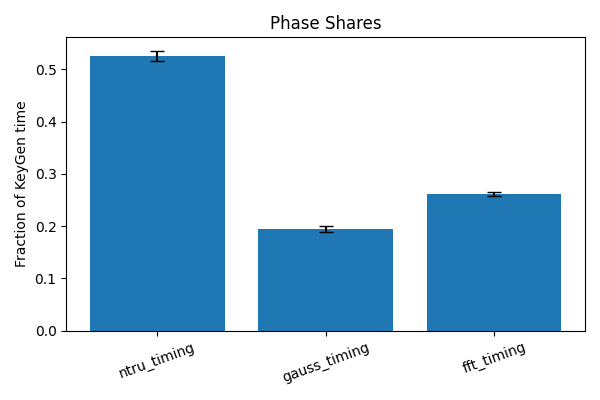
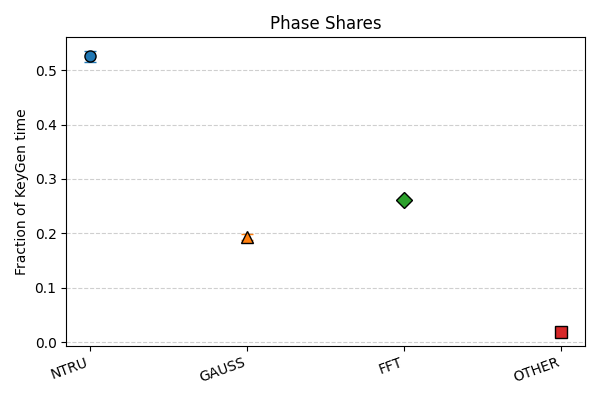
falcon refactored

diff --git a/Falcon/keygen_operations/compute_phase_shares.py b/Falcon/keygen_operations/compute_phase_shares.py
@@ -2,28 +2,17 @@
 """
 compute_phase_shares.py
 
-Reads a CSV of Falcon keygen phase timings and computes the fraction
-of each subphase relative to the total key generation time, then
-outputs a summary CSV and bar chart.
+Reads a Falcon timing CSV with columns:
+  mode,iteration,keygen,sign,verify,rejections,ntru_timing,gauss_timing,fft_timing
 
-Usage:
-    python3 compute_phase_shares.py <input_csv> <output_csv> <output_png>
-
-Example:
-    python3 compute_phase_shares.py falcon_512_times.csv phase_shares_512.csv phase_shares_512.png
+Computes fraction of each subphase (NTRU, Gauss, FFT) relative to the keygen time,
+adds the "other" fraction (the remainder), then writes a CSV of those fractions and a
+dot-and-error-bar chart of the mean ± SEM.
 """
 import sys
 import pandas as pd
 import matplotlib.pyplot as plt
 import numpy as np
-
-def compute_shares(df, time_cols, total_col):
-    # Compute fraction of each phase per run
-    shares = {}
-    for col in time_cols:
-        shares[f"{col}_frac"] = df[col] / df[total_col]
-    return pd.DataFrame(shares)
-
 
 def main():
     if len(sys.argv) != 4:
@@ -31,35 +20,60 @@ def main():
         sys.exit(1)
 
     in_csv, out_csv, out_png = sys.argv[1:]
-    # Read timing CSV
     df = pd.read_csv(in_csv)
 
-    # Expected columns in input: 'KeyGen', 'NTRU', 'Gauss', 'FFT', 'Other'
-    # adjust names if different
-    total_col = 'keygen'
-    phase_cols = ['ntru_timing', 'gauss_timing', 'fft_timing']
-    # if there is an 'Other' column, include it:
-    if 'Other_ms' in df.columns:
-        phase_cols.append('Other_ms')
+    # These must match the column names in your CSV
+    total_col  = "keygen"
+    phase_cols = ["ntru_timing", "gauss_timing", "fft_timing"]
 
-    shares_df = compute_shares(df, phase_cols, total_col)
+    # Compute per-run fractions
+    shares_df = df[phase_cols].div(df[total_col], axis=0)
+    # Add "other" as the remainder
+    shares_df['other_frac'] = 1 - shares_df.sum(axis=1)
+
+    # Save the fractions CSV
     shares_df.to_csv(out_csv, index=False)
-    print(f"Saved phase share fractions to {out_csv}")
+    print(f"Saved phase-share fractions to {out_csv}")
 
-    # Compute mean and error bars
+    # Compute mean and SEM
     means = shares_df.mean()
-    ses = shares_df.sem()
+    sems  = shares_df.sem()
 
-    # Plot
+    # --- Dot-and-error-bar style plot ---
     plt.figure(figsize=(6,4))
-    x = np.arange(len(means))
-    plt.bar(x, means, yerr=ses, capsize=5)
-    plt.xticks(x, [c.replace('_frac','') for c in means.index], rotation=20)
-    plt.ylabel('Fraction of KeyGen time')
-    plt.title('Phase Shares')
+    ax = plt.gca()
+
+    phases = means.index.tolist()
+    x = np.arange(len(phases))
+
+    # Markers and colors for each phase (4 phases now)
+    markers = ['o','^','D','s']
+    colors  = ['C0','C1','C2','C3']
+
+    for i, phase in enumerate(phases):
+        ax.errorbar(
+            x[i], means[phase],
+            yerr=sems[phase],
+            fmt=markers[i],
+            markersize=8,
+            markerfacecolor=colors[i],
+            markeredgecolor='black',
+            elinewidth=1.5,
+            capsize=4
+        )
+
+    ax.set_xticks(x)
+    # Clean up labels: drop suffixes
+    labels = [p.replace('_timing','').replace('_frac','').upper() for p in phases]
+    ax.set_xticklabels(labels, rotation=20, ha='right')
+
+    ax.set_ylabel('Fraction of KeyGen time')
+    ax.set_title('Phase Shares')
+    ax.grid(axis='y', linestyle='--', alpha=0.6)
+
     plt.tight_layout()
     plt.savefig(out_png)
-    print(f"Saved phase share bar chart to {out_png}")
+    print(f"Saved phase-share dot-and-error-bar chart to {out_png}")
 
-if __name__ == '__main__':
+if __name__ == "__main__":
     main()
